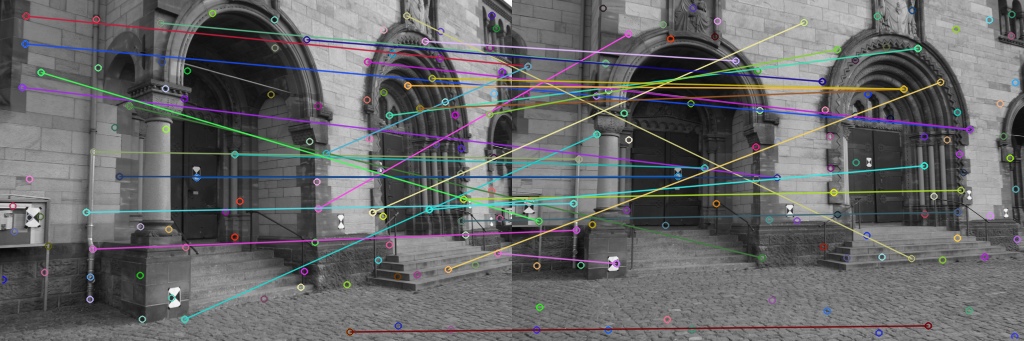
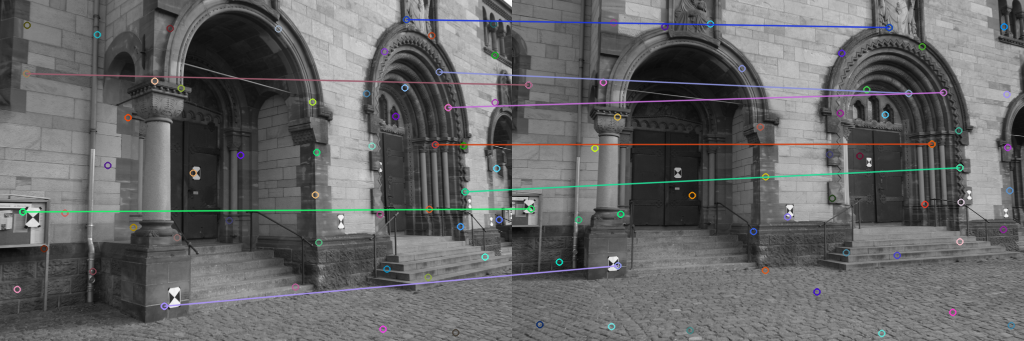
GroundTruth information fully finished

diff --git a/scripts/Triangulation/Depth.py b/scripts/Triangulation/Depth.py
@@ -1,13 +1,14 @@
-#%%
-from mpl_toolkits.mplot3d import Axes3D
+# %%
+import os
+
+import cv2
 import matplotlib.pyplot as plt
+from mpl_toolkits.mplot3d import Axes3D
+import numpy as np
+import pandas as pd
 from sklearn.cluster import KMeans
 from sklearn.metrics import pairwise_distances_argmin_min
-import pandas as pd
-import numpy as np
-import sys
-import cv2
-import os
+
 
 class Triangulation:
     def __init__(self, K, R1, R2, T1, T2):
@@ -35,6 +36,7 @@ class Triangulation:
         :param clusters:
         :return:
         """
+
         class InnerFeatures:
             def __init__(self, kps, des, pos):
                 self.kps = kps
@@ -67,11 +69,13 @@ class Triangulation:
         :param clusters:
         :return:
         """
+
         class InnerFeatures:
             def __init__(self, kps, des, pos):
                 self.kps = kps
                 self.des = des
                 self.pos = pos
+
         kmeans = KMeans(n_clusters=clusters)
 
         pts = np.array(features.pos)
@@ -104,15 +108,15 @@ class Triangulation:
         final_des = np.array(final_des)
         final_kps = np.array(final_kps)
 
-        result = InnerFeatures(kps = final_kps, des=final_des, pos = final_pts)
+        result = InnerFeatures(kps=final_kps, des=final_des, pos=final_pts)
         return result
 
-
-    def findRootSIFTFeatures(self, n_components = None):
+    def findRootSIFTFeatures(self, n_components=None):
 
         class RootSIFT:
             def __init__(self):
                 self.extractor = cv2.xfeatures2d.SIFT_create()
+
             def compute(self, image, kps, eps=1e-7):
                 (kps, descs) = self.extractor.compute(image, kps)
                 if len(kps) == 0:
@@ -147,14 +151,13 @@ class Triangulation:
         self.feature_1 = self.findK_centroids_average(self.feature_1, n_components)
         self.feature_2 = self.findK_centroids_average(self.feature_2, n_components)
 
+    def matchingRootSIFTFeatures_advanced(self, solution):
+        solution = solution.reshape(-1, 4)
+        PX = solution[:, 0].reshape(-1, 1)
+        PY = solution[:, 1].reshape(-1, 1)
 
-    def matchingRootSIFTFeatures_advanced(self,solution):
-        solution = solution.reshape(-1,4)
-        PX = solution[:,0].reshape(-1, 1)
-        PY = solution[:,1].reshape(-1, 1)
-
-        QX = solution[:,2].reshape(-1, 1)
-        QY = solution[:,3].reshape(-1, 1)
+        QX = solution[:, 2].reshape(-1, 1)
+        QY = solution[:, 3].reshape(-1, 1)
 
         matched_pts1 = np.float32(np.concatenate((PX, PY), axis=1))
         matched_pts2 = np.float32(np.concatenate((QX, QY), axis=1))
@@ -162,8 +165,7 @@ class Triangulation:
         self.match_pts1 = matched_pts1
         self.match_pts2 = matched_pts2
 
-
-    def matchingRootSIFTFeatures(self, pathToCsv=None ,fromJulia=False):
+    def matchingRootSIFTFeatures(self, pathToCsv=None, fromJulia=False):
         if fromJulia:
             data_path = os.path.join(pathToCsv)
             matchedPointsDF = pd.read_csv(data_path, sep=",", header=None)
@@ -192,7 +194,7 @@ class Triangulation:
             pts2 = []
 
             for i, (m, n) in enumerate(matches):
-                if m.distance < 0.85 * n.distance:
+                if m.distance < 0.80 * n.distance:
                     good.append(m)
                     pts2.append(self.feature_2.kps[m.trainIdx].pt)
                     pts1.append(self.feature_1.kps[m.queryIdx].pt)
@@ -203,17 +205,18 @@ class Triangulation:
             print("Opencv Matched found :{} feature correspondences".format(len(self.matches)))
 
     def drawMathces(self, path):
-        OutImage = cv2.drawMatches(self.img1, self.feature_1.kps, self.img2, self.feature_2.kps, self.matches,outImg=None)
-        cv2.imwrite(path,OutImage)
+        OutImage = cv2.drawMatches(self.img1, self.feature_1.kps, self.img2, self.feature_2.kps, self.matches,
+                                   outImg=None)
+        cv2.imwrite(path, OutImage)
 
     def findRTmatrices(self):
 
         pts1 = self.match_pts1
         pts2 = self.match_pts2
-        left_points = np.zeros((pts1.shape[0],3))
-        right_points = np.zeros((pts2.shape[0],3))
+        left_points = np.zeros((pts1.shape[0], 3))
+        right_points = np.zeros((pts2.shape[0], 3))
 
-        R = np.dot(self.R2,self.R1)
+        R = np.dot(self.R2, self.R1)
         T = - np.dot(self.R2, self.R1).dot(self.T1) - self.T2
 
         # R = np.multiply(self.R2, self.R1.T)
@@ -221,11 +224,11 @@ class Triangulation:
         stop = 1
 
         for i in range(self.match_pts1.shape[0]):
-            norm1 = self.K_inv.dot([self.match_pts1[i][0],self.match_pts1[i][1], 1.0])
-            norm2 = self.K_inv.dot([self.match_pts2[i][0],self.match_pts2[i][1], 1.0])
+            norm1 = self.K_inv.dot([self.match_pts1[i][0], self.match_pts1[i][1], 1.0])
+            norm2 = self.K_inv.dot([self.match_pts2[i][0], self.match_pts2[i][1], 1.0])
 
-            left_points[i,:] = norm1
-            right_points[i,:] = norm2
+            left_points[i, :] = norm1
+            right_points[i, :] = norm2
 
         self.norm_1 = left_points
         self.norm_2 = right_points
@@ -233,12 +236,10 @@ class Triangulation:
         self.Rt1 = np.hstack((np.eye(3), np.zeros((3, 1))))
         self.Rt2 = np.hstack((R, T.reshape(3, 1)))
 
-    def point_cloud(self, title, plot = True):
+    def point_cloud(self, title, plot=True):
         first_inliers = np.array(self.norm_1).reshape(-1, 3)[:, :2]
         second_inliers = np.array(self.norm_2).reshape(-1, 3)[:, :2]
         pts4D = cv2.triangulatePoints(self.Rt1, self.Rt2, first_inliers.T,
-                                      second_inliers.T).T
-        pts4D = cv2.triangulatePoints(self.K.dot(self.Rt1), self.K.dot(self.Rt2), first_inliers.T,
                                       second_inliers.T).T
         pts3D = pts4D[:, :3] / np.repeat(pts4D[:, 3], 3).reshape(-1, 3)
         Ys = pts3D[:, 0]
@@ -252,7 +253,11 @@ class Triangulation:
             ax.set_xlabel('X')
             ax.set_ylabel('Y')
             ax.set_zlabel('Z')
+            ax.set_xlim3d(-100, 100)
+            ax.set_ylim3d(-20, 100)
+            ax.set_zlim3d(-20, 30)
             plt.title('3D point cloud: {}'.format(title))
+            plt.savefig("3D_ground_truth.png")
             plt.show()
 
         self.pts3D = pts3D

diff --git a/mainDepthEstimation.py b/mainDepthEstimation.py
@@ -2,15 +2,18 @@ import glob
 import json
 import os
 import subprocess
-
+import platform
 import matplotlib.pyplot as plt
+from mpl_toolkits.mplot3d import Axes3D
 import numpy as np
 
 from scripts.Triangulation.Depth import Triangulation
 from scripts.Triangulation.HausdorffDist import Hausdorff
 
 BASE = os.getcwd()
-
+CONFIG_PATH = os.path.join(BASE, "config", "config.json")
+with open(CONFIG_PATH, 'r') as f:
+    CONFIG = json.load(f)["config"]
 
 class Stereo:
     def __init__(self, path,n_components, plot_ground_truth = False, show_imgs = False, n_sols = 100):
@@ -82,16 +85,22 @@ class Stereo:
             matched = plt.imread(matched_img)
             plt.imshow(matched, cmap="gray")
             plt.show()
-        opencv.point_cloud(plot=self.draw_plot, title="OpenCV")
+
+        opencv.point_cloud(plot=self.draw_plot, title="GroundTruth")
         self.target = opencv.pts3D
 
     def compute_LP(self):
+        if platform.system() == "Darwin":
+            julia_path = "/Applications/Julia-1.0.app/Contents/Resources/julia/bin/julia"
+        else:
+            julia_path = "julia"
         process = subprocess.Popen(
-            ['julia', os.path.join(BASE, "scripts", "DepthEstimation.jl"),
+            [julia_path, os.path.join(BASE, "scripts", "DepthEstimation.jl"),
              self.img1_path,
              self.img2_path,
              self.main_path,
-             self.limit_solutions],
+             self.limit_solutions,
+             CONFIG_PATH],
             stdout=subprocess.PIPE,
             stderr=subprocess.PIPE)
         stdout, stderr = process.communicate()
@@ -124,24 +133,22 @@ class Stereo:
                                                                            dist_man_max, dist_euc_avg, dist_euc_max))
 
 
-CONFIG_PATH = os.path.join(BASE, "config", "config.json")
-with open(CONFIG_PATH, 'r') as f:
-    CONFIG = json.load(f)["config"]
 
-for i in range(1, 2):
+
+for i in range(20, 21):
     pair_path = os.path.join(BASE, "data", "dataset", "pair_{}".format(str(i)))
     stereo = Stereo(
         path=pair_path,
         n_components = int(CONFIG["SIFTFeatures"]),
         plot_ground_truth=True,
-        show_imgs = True,
+        show_imgs=False,
         n_sols=100
     )
 
     stereo.compute_ground_truth()
-    stereo.julia_method(run_julia=True)
+    # stereo.julia_method(run_julia=True)
     # stereo.compute_LP()
-    # print("Pair: {} finished".format(str(i)))
+    print("Pair: {} finished".format(str(i)))
 
 
 # send_email(
